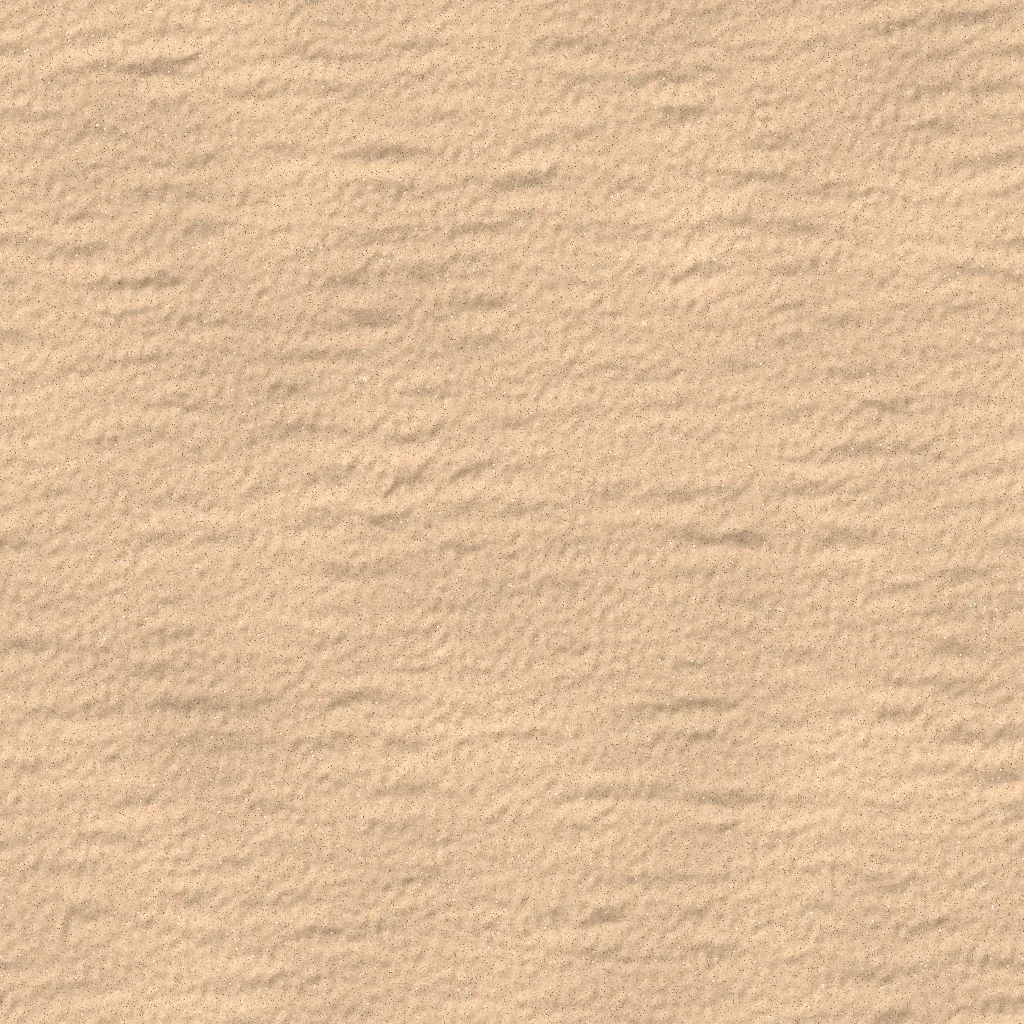
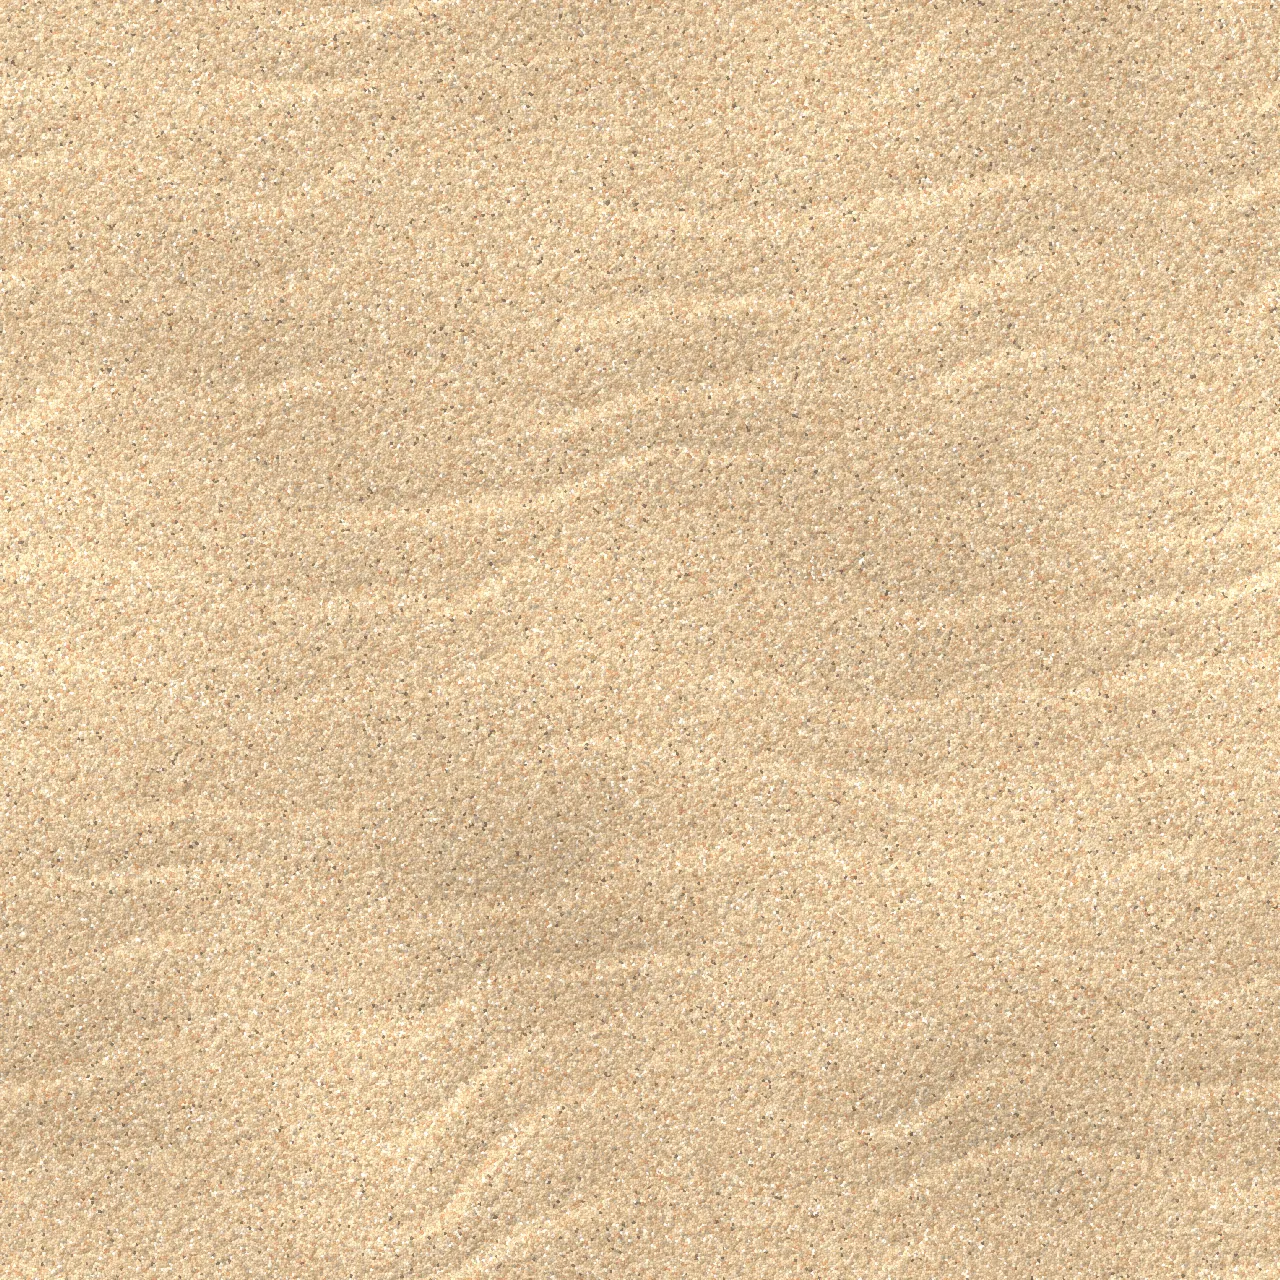
Areia ainda mais realista: grão a grão (cores, quartzo, frestas), marcas de vento assimétricas com luz rasante; versão leve no celular

diff --git a/src/app/globals.css b/src/app/globals.css
@@ -3357,7 +3357,7 @@ body:has(.painel) { background: #f6f2fb; }
 .beach-sand {
   background:
     radial-gradient(ellipse 80% 45% at 50% 0%, rgb(255 246 232 / 0.3), transparent 70%),
-    url("/2027/areia-real.webp") 0 0 / 640px 640px,
+    url("/2027/areia-real.webp?v=2") 0 0 / 640px 640px,
     #e2c09c;
   background-blend-mode: normal;
 }
@@ -3365,3 +3365,12 @@ body:has(.painel) { background: #f6f2fb; }
 .tide-arrow.is-round { width: 3.2rem; aspect-ratio: 1; border-radius: 50%; border: 1px solid rgb(112 76 38 / 0.45); background: rgb(255 250 244 / 0.85); color: #7a4e1c; font-size: 1.55rem; line-height: 1; padding: 0; box-shadow: 0 0.4rem 1rem -0.4rem rgb(112 76 38 / 0.45); }
 .tide-arrow.is-round:hover { background: #fff6e8; }
 @media (max-width: 767px) { .tide-arrow.is-round { width: 3rem; font-size: 1.45rem; } }
+/* celular: a mesma areia num arquivo menor (960 px para um ladrilho de 480 px na tela) */
+@media (max-width: 767px) {
+  .beach-sand {
+    background:
+      radial-gradient(ellipse 80% 45% at 50% 0%, rgb(255 246 232 / 0.3), transparent 70%),
+      url("/2027/areia-real-cel.webp?v=2") 0 0 / 480px 480px,
+      #e2c09c;
+  }
+}
